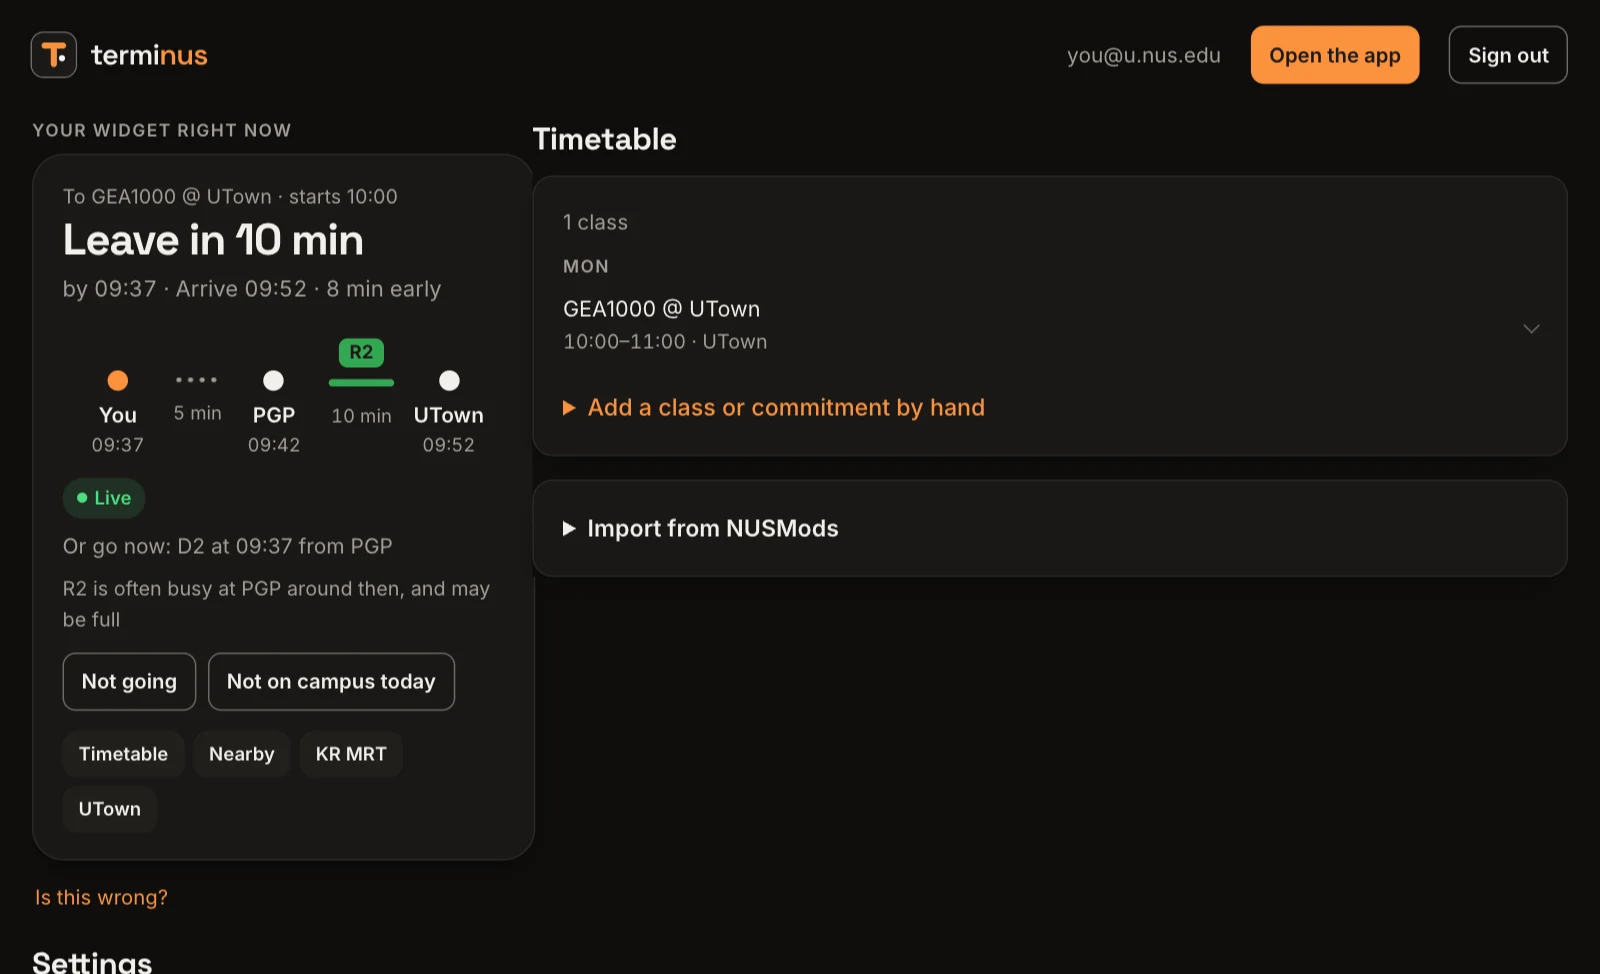
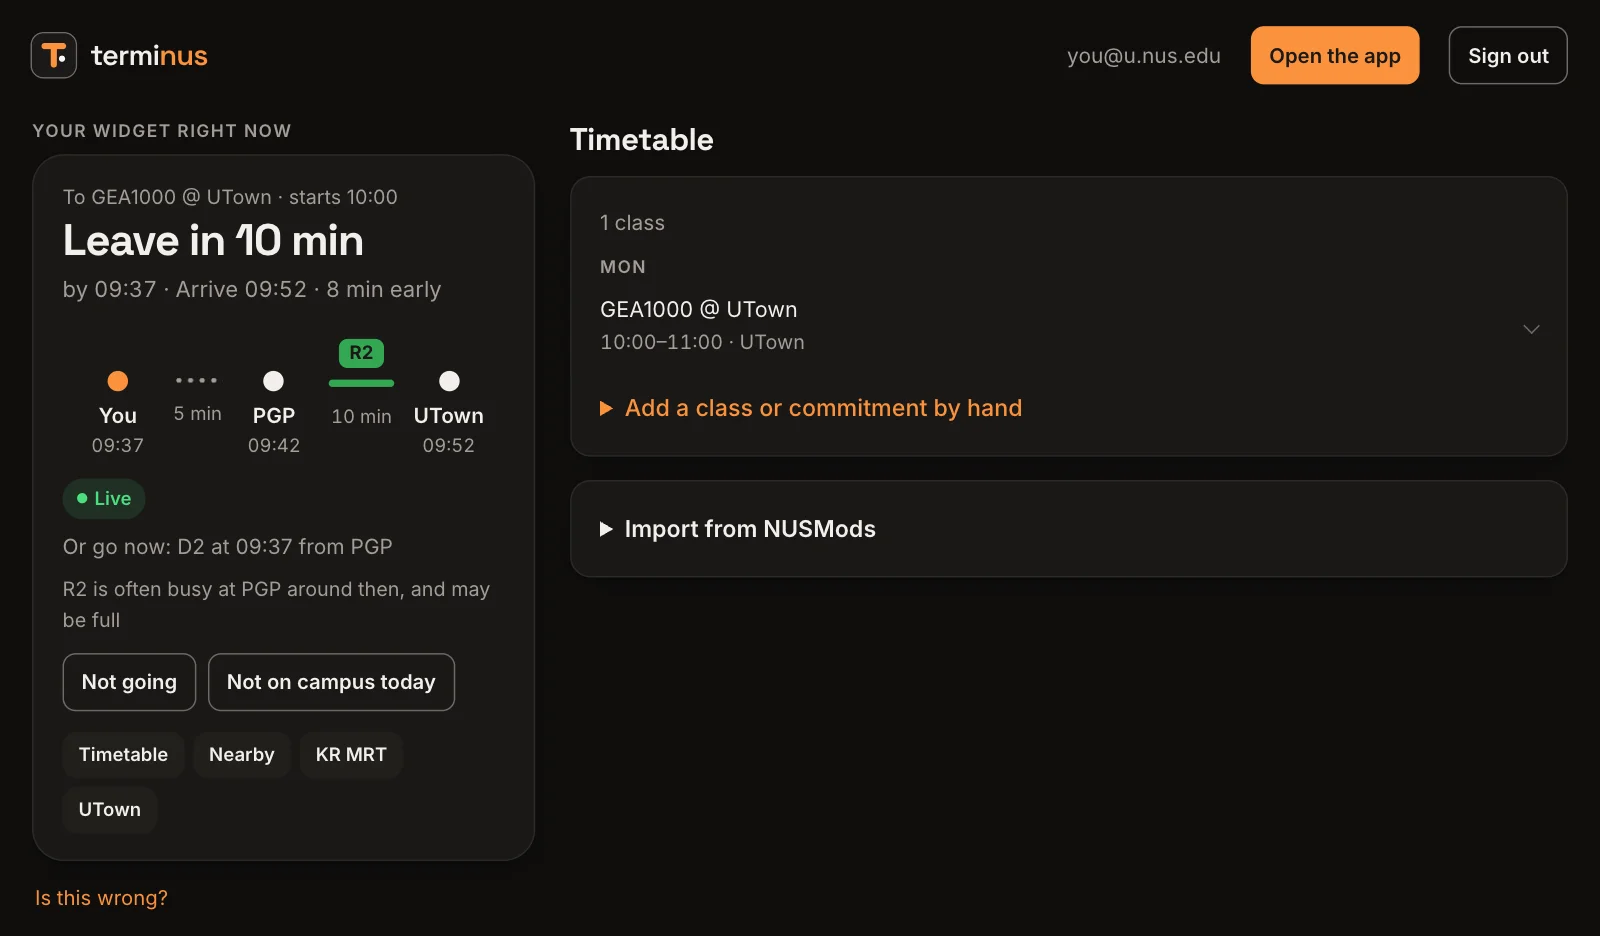
feat(web): home page pictures grouped with their captions
Each picture in "Wherever you look" sits on a faint panel with its
caption, so it's clear which words go with which picture. The two
half-width captions are rewritten to two lines each, so the cards match.

The account page shot is retaken without the card overlapping the
timetable and cropped above "Settings"; on a phone it shows just the
card, which is readable there. The feature cards get a heading of their
own ("What it does"), and the setup steps match the apps: install, add
your timetable, glance, with no sign-in or pairing needed first.

diff --git a/apps/web/public/index.html b/apps/web/public/index.html
@@ -81,8 +81,9 @@
   .phone .split .tag.d { bottom: 22px; right: 18px; }
 
   /* Everywhere: browser, Mac, home screen. */
-  .showcase { display: grid; grid-template-columns: repeat(12, 1fr); gap: 20px; margin-top: 28px; }
-  .showcase figure { margin: 0; display: grid; gap: 14px; align-content: start; }
+  .showcase { display: grid; grid-template-columns: repeat(12, 1fr); gap: 20px; margin-top: 36px; }
+  .showcase figure { margin: 0; display: grid; gap: 14px; align-content: start; padding: 14px 14px 20px; border-radius: 26px; background: var(--surface-2); }
+  .showcase figcaption { padding: 0 6px; }
   .showcase figcaption h3 { font-size: 1.1rem; margin-bottom: 4px; }
   .showcase figcaption p { color: var(--muted); font-size: 0.95rem; max-width: 38rem; }
   .showcase .wide { grid-column: 1 / -1; }
@@ -123,7 +124,7 @@
   .features .card h3 { font-size: 1.1rem; margin: 12px 0 6px; }
   .features .card p { color: var(--muted); font-size: 0.95rem; }
   .icon { width: 36px; height: 36px; border-radius: 10px; background: var(--accent-soft); color: var(--accent); display: grid; place-items: center; }
-  .how { display: grid; grid-template-columns: repeat(3, 1fr); gap: 24px; margin-top: 64px; counter-reset: step; }
+  .how { display: grid; grid-template-columns: repeat(3, 1fr); gap: 24px; margin-top: 28px; counter-reset: step; }
   .how div::before { counter-increment: step; content: counter(step); display: inline-grid; place-items: center; width: 28px; height: 28px; border-radius: 50%; background: var(--ink); color: var(--bg); font: 600 0.85rem/1 var(--font); margin-bottom: 12px; }
   .how h3 { font-size: 1.05rem; margin-bottom: 6px; }
   .how p { color: var(--muted); font-size: 0.95rem; }
@@ -180,7 +181,7 @@
         <ol>
           <li><strong>Android:</strong> open the downloaded file and allow your browser to install apps when asked. It's installed directly, not from the Play Store, so Play Protect may ask you to confirm.</li>
           <li><strong>Mac:</strong> open the downloaded disk image and drag terminus to Applications. After that it keeps itself up to date.</li>
-          <li>Sign in at <a href="/account">your account</a>, import your NUSMods timetable, and pair each device with the code or QR shown there.</li>
+          <li>Open the app and paste your NUSMods share link. To use one timetable on several devices, sign in with the same email on each, or pair them from <a href="/account">your account</a>.</li>
         </ol>
       </details>
     </div>
@@ -203,8 +204,10 @@
       <div class="window">
         <div class="window-bar" aria-hidden="true"><i></i><i></i><i></i><span>terminus.rcn.sh/account</span></div>
         <picture class="shot">
+          <source srcset="/assets/shots/web-card-dark.webp" media="(max-width: 600px) and (prefers-color-scheme: dark)" width="568" height="840">
+          <source srcset="/assets/shots/web-card-light.webp" media="(max-width: 600px)" width="568" height="840">
           <source srcset="/assets/shots/web-dark.webp" media="(prefers-color-scheme: dark)">
-          <img src="/assets/shots/web-light.webp" width="1600" height="974" loading="lazy" alt="The account page: the timetable, and a live preview of your card saying leave in 10 minutes, by 09:37: walk 5 minutes to PGP, take the 09:42 R2 and arrive at UTown at 09:52, 8 minutes early.">
+          <img src="/assets/shots/web-light.webp" width="1600" height="936" loading="lazy" alt="The account page: the timetable, and a live preview of your card saying leave in 10 minutes, by 09:37: walk 5 minutes to PGP, take the 09:42 R2 and arrive at UTown at 09:52, 8 minutes early.">
         </picture>
       </div>
       <figcaption><h3>Set up on the web</h3><p>Import your NUSMods timetable, pick where you live and how fast you walk, and see exactly what your widget will say.</p></figcaption>
@@ -214,7 +217,7 @@
         <source srcset="/assets/shots/widget-dark.webp" media="(prefers-color-scheme: dark)">
         <img src="/assets/shots/widget-light.webp" width="900" height="563" loading="lazy" alt="The Android home-screen widget: leave by 9:39 AM for GEA1000, with the trip drawn as a line from you to PGP to UTown, and buttons for favourites.">
       </picture>
-      <figcaption><h3>On your home screen</h3><p>A widget that keeps itself up to date, with your favourites one tap away. Or a live notification, and a heads-up before you need to leave.</p></figcaption>
+      <figcaption><h3>On your home screen</h3><p>A widget that keeps itself up to date, with your favourites one tap away, and a live notification when it’s time to go.</p></figcaption>
     </figure>
     <figure class="half-col">
       <div class="desk themed">
@@ -227,10 +230,11 @@
           <img class="pop" src="/assets/shots/mac-dark.webp" width="720" height="733" loading="lazy" alt="">
         </div>
       </div>
-      <figcaption><h3>In your menu bar</h3><p>When to leave, one glance up. The rest, a click away.</p></figcaption>
+      <figcaption><h3>In your menu bar</h3><p>When to leave, one glance up. Click for the whole trip, your favourites, or anywhere else on campus.</p></figcaption>
     </figure>
   </section>
 
+  <h2 class="section-title">What it does</h2>
   <section class="features">
     <div class="card">
       <div class="icon"><svg width="20" height="20" viewBox="0 0 24 24" fill="none" stroke="currentColor" stroke-width="2" stroke-linecap="round"><rect x="3" y="4" width="18" height="17" rx="3"/><path d="M8 2v4M16 2v4M3 10h18"/></svg></div>
@@ -251,8 +255,8 @@
 
   <h2 class="section-title">Set up in two minutes</h2>
   <section class="how">
-    <div><h3>Sign in</h3><p>Email link, no password. Import your NUSMods share link and pick your home stop.</p></div>
-    <div><h3>Install</h3><p>Android widget or Mac menu bar app. Scan the pairing QR code, or type the code.</p></div>
+    <div><h3>Install</h3><p>The Android widget or the Mac menu bar app. No account or password to set up.</p></div>
+    <div><h3>Add your timetable</h3><p>Paste your NUSMods share link, then pick where you live and how fast you walk.</p></div>
     <div><h3>Glance</h3><p>You're all set. It updates throughout the day and stays quiet in the evening.</p></div>
   </section>
 </main>

diff --git a/apps/web/public/assets/zh.js b/apps/web/public/assets/zh.js
@@ -16,7 +16,7 @@ window.TERMINUS_ZH = {
  "<strong>Mac:</strong> open the downloaded disk image and drag terminus to Applications. After that it keeps itself up to date.": "<strong>Mac：</strong>打开下载的磁盘映像，把 terminus 拖到“应用程序”。之后它会自动更新。",
  "A class no longer in your timetable": "已不在你课表里的课",
  "A reminder before it's time to leave, then updates on your bus as your trip goes on.": "在该出发时提醒你，并在行程中更新你的巴士动态。",
- "A widget that keeps itself up to date, with your favourites one tap away. Or a live notification, and a heads-up before you need to leave.": "一个会自动更新的小组件，收藏一点就到。也可以用实时通知，并在你需要出发前提醒你。",
+ "A widget that keeps itself up to date, with your favourites one tap away, and a live notification when it’s time to go.": "一个会自动更新的小组件，收藏一点就到；该出发时，还有实时通知提醒你。",
  "API": "API",
  "API keys": "API 密钥",
  "Account": "账户",
@@ -34,7 +34,7 @@ window.TERMINUS_ZH = {
  "Already a favourite: {0}": "已经收藏了：{0}",
  "Also used for emails and on your other devices. Place and bus names stay in English, as on the signs.": "也用于电子邮件和你的其他设备。地点和巴士名称保持英文，与站牌一致。",
  "Android 12 or later": "Android 12 或更高版本",
- "Android widget or Mac menu bar app. Scan the pairing QR code, or type the code.": "Android 小组件或 Mac 菜单栏应用。扫描配对二维码，或输入代码。",
+ "The Android widget or the Mac menu bar app. No account or password to set up.": "安装 Android 小组件或 Mac 菜单栏应用。不用注册账户，也不用密码。",
  "App and home-screen widgets": "应用和主屏幕小组件",
  "Arriving": "即将到站",
  "Available in one tap from the app, the widget and the menu bar. To go somewhere every week, add it to your timetable.": "在应用、小组件和菜单栏中一键可达。每周都去的地方，可以加到课表里。",
@@ -76,7 +76,7 @@ window.TERMINUS_ZH = {
  "Download for Mac": "下载 Mac 版",
  "Download my data": "下载我的数据",
  "Email": "邮箱",
- "Email link, no password. Import your NUSMods share link and pick your home stop.": "用邮件链接，不需要密码。导入你的 NUSMods 分享链接并选择你家附近的车站。",
+ "Paste your NUSMods share link, then pick where you live and how fast you walk.": "粘贴你的 NUSMods 分享链接，再选好你住在哪里、走路多快。",
  "Email me a code": "给我发验证码",
  "Email me a sign-in code": "给我发登录验证码",
  "Ends": "结束",
@@ -230,12 +230,13 @@ window.TERMINUS_ZH = {
  "Send": "发送",
  "Sending…": "正在发送…",
  "Set up in two minutes": "两分钟设置好",
+ "Add your timetable": "添加你的课表",
  "Set up on the web": "在网页上设置",
  "Settings": "设置",
  "Setup progress": "设置进度",
  "Show buses between": "在这段时间显示巴士",
  "Sign in": "登录",
- "Sign in at <a href=\"/account\">your account</a>, import your NUSMods timetable, and pair each device with the code or QR shown there.": "在<a href=\"/account\">你的账户</a>登录，导入你的 NUSMods 课表，然后用那里显示的代码或二维码配对每台设备。",
+ "Open the app and paste your NUSMods share link. To use one timetable on several devices, sign in with the same email on each, or pair them from <a href=\"/account\">your account</a>.": "打开应用，粘贴你的 NUSMods 分享链接。想在多台设备上用同一份课表，就在每台设备上用同一个邮箱登录，或在<a href=\"/account\">你的账户</a>里配对。",
  "Sign in to terminus": "登录 terminus",
  "Sign out": "退出登录",
  "Sign out everywhere": "在所有设备上退出登录",
@@ -309,7 +310,7 @@ window.TERMINUS_ZH = {
  "What it's for, e.g. My script": "用途，例如：我的脚本",
  "What was wrong? <span class=\"hint\">(optional)</span>": "哪里不对？<span class=\"hint\">（可选）</span>",
  "When the bus you would wait for is often full at that stop and time, aim one bus earlier.": "如果你要等的巴士在那个车站和时间经常满员，就提早一班。",
- "When to leave, one glance up. The rest, a click away.": "抬头一看就知道什么时候出发。其他信息，点一下就有。",
+ "When to leave, one glance up. Click for the whole trip, your favourites, or anywhere else on campus.": "抬头一看就知道什么时候出发。点一下，查看完整行程、你的收藏，或去校园里的任何地方。",
  "Where": "地点",
  "Where do you live?": "你住在哪里？",
  "Where to": "去哪里",
@@ -317,6 +318,7 @@ window.TERMINUS_ZH = {
  "Where you live": "你住在哪里",
  "Where your day starts": "你的一天从哪里开始",
  "Wherever you look": "随处可见",
+ "What it does": "它能做什么",
  "You're set": "设置好了",
  "A brisk pace": "步伐轻快",
  "Your classes": "你的课",
